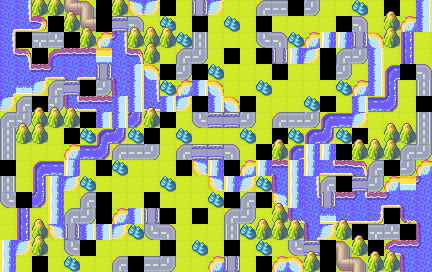
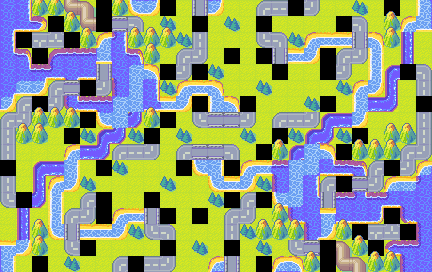
Updated mapToArray, tiles, and getMapPNG
getMapPNG  now downloads the AW2 version of the map, as it is easier to tell the difference between a shoal, ocean, and river tile. The tiles folder was updated accordingly. mapToArray now uses a histogramic approach for image comparison, which seems more effective.

diff --git a/mapToArray.py b/mapToArray.py
@@ -22,40 +22,56 @@ def divide_into_tiles(image, tile_size):
 def compare_tiles(tile, reference_tiles):
     """
     Compare a tile with a set of reference tiles.
+    Return the name of the best-matching tile.
     """
-    best_match_index = 0
-    best_match_score = float('inf')
+    best_match_name = ""
+    best_match_score = float('-inf')  # Initialize with a low value for correlation
 
-    for i, reference_tile in enumerate(reference_tiles):
-        score = np.sum(np.abs(tile - reference_tile))
-        if score < best_match_score:
-            best_match_score = score
-            best_match_index = i
+    for tile_name, reference_tile in zip(['bridge', 'empty', 'forest', 'mountain', 'ocean', 'ocean2', 'pipe', 'pipe2', 'plain', 'river', 'road', 'road2', 'shoal'], reference_tiles):
+        hist_comparison = cv2.compareHist(cv2.calcHist([tile], [0, 1, 2], None, [8, 8, 8], [0, 256, 0, 256, 0, 256]),
+                                          cv2.calcHist([reference_tile], [0, 1, 2], None, [8, 8, 8], [0, 256, 0, 256, 0, 256]),
+                                          cv2.HISTCMP_CORREL)
 
-    return best_match_index
+        if hist_comparison > best_match_score:
+            best_match_score = hist_comparison
+            best_match_name = tile_name
+
+    return best_match_name
 
 def map_tiles_to_array(tiles, rows, cols, reference_tiles):
     """
     Map tiles to a 2D array based on comparison with reference tiles.
+    Return an array of tile names.
     """
-    tile_map = np.zeros((rows, cols), dtype=int)
+    tile_map = np.empty((rows, cols), dtype=np.dtype('U10'))
 
     for i in range(rows):
         for j in range(cols):
-            tile_index = compare_tiles(tiles[i * cols + j], reference_tiles)
-            tile_map[i, j] = tile_index
+            tile_name = compare_tiles(tiles[i * cols + j], reference_tiles)
+            tile_map[i, j] = tile_name
 
     return tile_map
 
 # Load the map image
-map_image = cv2.imread('path/to/your/map.png')
+map_image = cv2.imread('map.png')
 
 # Load reference tiles
-reference_tile1 = cv2.imread('path/to/your/reference_tile1.png')
-reference_tile2 = cv2.imread('path/to/your/reference_tile2.png')
-# Add more reference tiles as needed
+bridge = cv2.imread('tiles/bridge.png')
+empty = cv2.imread('tiles/empty.png')
+forest = cv2.imread('tiles/forest.png')
+mountain = cv2.imread('tiles/mountain.png')
+ocean = cv2.imread('tiles/ocean.png')
+ocean2 = cv2.imread('tiles/ocean2.png')
+pipe = cv2.imread('tiles/pipe.png')
+pipe2 = cv2.imread('tiles/pipe2.png')
+plain = cv2.imread('tiles/plain.png')
+river = cv2.imread('tiles/river.png')
+road = cv2.imread('tiles/road.png')
+road2 = cv2.imread('tiles/road2.png')
+shoal = cv2.imread('tiles/shoal.png')
+shoal2 = cv2.imread('tiles/shoal.png')
 
-reference_tiles = [reference_tile1, reference_tile2]  # Add your reference tiles to this list
+reference_tiles = [bridge, empty, forest, mountain, ocean, ocean2, pipe, pipe2, plain, river, road, road2, shoal, shoal2]
 
 # Set the tile size
 tile_size = 16
@@ -68,3 +84,4 @@ tile_map = map_tiles_to_array(tiles, rows, cols, reference_tiles)
 
 # Print or use the resulting tile map
 print(tile_map)
+

diff --git a/getMapPNG.py b/getMapPNG.py
@@ -18,11 +18,14 @@ def downloadMapImage(url, save_path='map.png'):
             # Extract the image URL
             img_url = urljoin(url, img_tag['src'])
 
-            # Download the image
-            img_data = requests.get(img_url).content
+            # Modify the image URL
+            modified_img_url = img_url.replace('/maps/', '/maps_test/aw2/')
+
+            # Download the modified image
+            img_data = requests.get(modified_img_url).content
             with open(save_path, 'wb') as f:
                 f.write(img_data)
-            
+
             print(f"Image downloaded and saved to {save_path}")
         else:
             print("No image found with id 'map-background'.")
